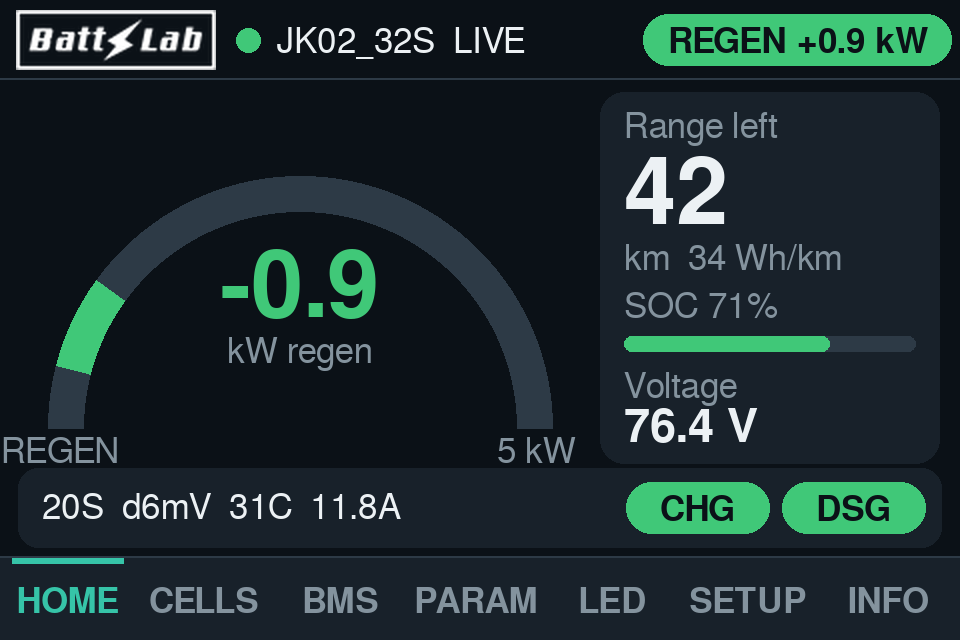
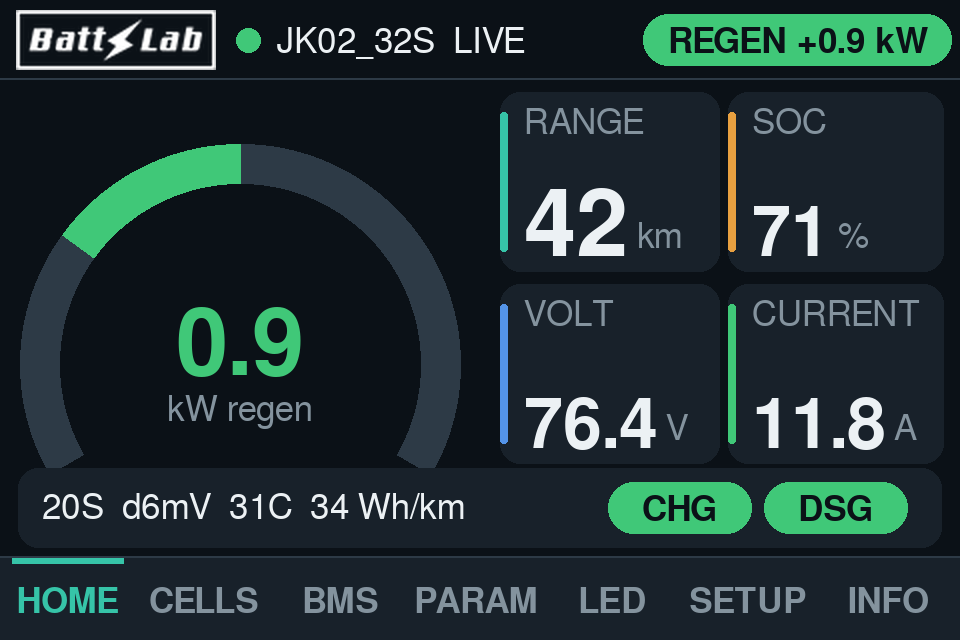
CYD EV home: redesign to symmetric gauge + RANGE/SOC/VOLT/CURRENT tiles (2.9.1-cyd35)
หน้าจอ EV (มอเตอร์ไซค์/รถ) เดิมเกจวัดกำลังเบี้ยว (REGEN เป็นแถบจิ๋วซ้ายสุด)
เลขไม่อยู่กลาง และค่ากระแสเบียดกับข้อมูลแพ็กด้านล่าง — เปลี่ยนใหม่เป็น:
- เกจกำลังสมมาตร: ศูนย์อยู่บนสุด regen กวาดซ้าย (เขียว) / drive กวาดขวา (ส้ม)
- เลข kW อยู่กลางเกจพอดี + ป้าย kW drive / kW regen
- การ์ด RANGE / SOC / VOLT / CURRENT เรียง 2x2 ด้านขวา เห็นค่าครบพร้อมกัน
- เข็มยังขยับแบบ easing (ไม่กระตุก) รองรับ regen + เตือนระยะทางต่ำเหมือนเดิม
- render_screens.py อัปเดตให้ preview ตรงกับ firmware จริง (พิกัด/ฟอนต์/สีเดียวกัน)

Claude-Session: https://claude.ai/code/session_01VYdSakDTk2CeAZPFHF5uE7

diff --git a/src/display.cpp b/src/display.cpp
@@ -714,71 +714,70 @@ static void flowAnim(const DisplaySnap &d) {
 }
 
 // ----------------------------------------------------------- EV HOME ----
-// Motorbike / car profile: drive-power meter (green = regen), range in km.
+// Motorbike / car profile (layout C): a symmetric power gauge (idle at top,
+// regen sweeps left in green, drive sweeps right in orange) with the live kW in
+// the middle, plus RANGE / SOC / VOLT / CURRENT tiles. The needle eases so the
+// motion stays smooth instead of jumping.
 static float evShown = 0, evPeak = 3000;
 static float evTarget = 0;
+static const int EV_CX = 120, EV_CY = 182, EV_R0 = 90, EV_R1 = 110;
 static void evMeter(float p) { // p in W: + = driving, - = regen
-  const int cx = 150, cy = 214, r1 = 126, r0 = 108;
-  float span = 180.f, z = 180 + span * .2f;
-  tft.fillArc(cx, cy, r0, r1, 180, 360, C_LINE);
-  if (p > 1) tft.fillArc(cx, cy, r0, r1, z, z + (360 - z) * std::min(1.f, p / evPeak), C_WARN);
-  else if (p < -1) tft.fillArc(cx, cy, r0, r1, z - (z - 180) * std::min(1.f, -p / (evPeak * .3f)), z, C_GOOD);
-  tft.fillRect(cx - 2 + int((r0 - 6) * cosf(z * 0.0174533f)), cy - 4 + int((r0 - 6) * sinf(z * 0.0174533f)), 4, 4, C_MUTED);
+  tft.fillArc(EV_CX, EV_CY, EV_R0, EV_R1, 150, 390, C_LINE);          // 240deg track, gap at the bottom
+  if (p > 1) tft.fillArc(EV_CX, EV_CY, EV_R0, EV_R1, 270, 270 + 120 * std::min(1.f, p / evPeak), C_WARN);
+  else if (p < -1) tft.fillArc(EV_CX, EV_CY, EV_R0, EV_R1, 270 - 120 * std::min(1.f, -p / (evPeak * .4f)), 270, C_GOOD);
   LGFX_Sprite t(&tft);
   t.setColorDepth(8);
-  if (!t.createSprite(160, 74)) return;
+  if (!t.createSprite(150, 70)) return;
   t.fillSprite(C_BG);
   t.setTextDatum(textdatum_t::middle_center);
   t.setFont(&fonts::FreeSansBold24pt7b);
   t.setTextColor(p < -1 ? C_GOOD : C_TEXT, C_BG);
-  t.drawString(fmt(p / 1000.f, 1), 80, 30);
+  t.drawString(fmt(std::fabs(p) / 1000.f, 1), 75, 26);
   t.setFont(&fonts::FreeSans9pt7b);
   t.setTextColor(C_MUTED, C_BG);
-  t.drawString(p < -1 ? "kW regen" : "kW", 80, 62);
-  t.pushSprite(cx - 80, cy - 100);
+  t.drawString(p < -1 ? "kW regen" : p > 1 ? "kW drive" : "kW", 75, 58);
+  t.pushSprite(EV_CX - 75, EV_CY - 35);
   t.deleteSprite();
+}
+// one data tile inside the right-hand sprite
+static void evTile(LGFX_Sprite &b, int x, int y, int w, int h, const char *label,
+                   const String &val, const char *unit, uint16_t accent, bool big) {
+  b.fillRoundRect(x, y, w, h, 10, C_CARD);
+  b.fillRoundRect(x, y + 10, 4, h - 20, 2, accent);
+  b.setFont(&fonts::FreeSans9pt7b);
+  b.setTextDatum(textdatum_t::top_left);
+  b.setTextColor(C_MUTED, C_CARD);
+  b.drawString(label, x + 12, y + 8);
+  b.setFont(big ? &fonts::FreeSansBold24pt7b : &fonts::FreeSansBold18pt7b);
+  b.setTextDatum(textdatum_t::bottom_left);
+  b.setTextColor(C_TEXT, C_CARD);
+  b.drawString(val, x + 12, y + h - 8);
+  int vw = b.textWidth(val);
+  b.setFont(&fonts::FreeSans9pt7b);
+  b.setTextColor(C_MUTED, C_CARD);
+  b.drawString(unit, x + 16 + vw, y + h - 12);
 }
 static void evHome(const DisplaySnap &d, bool force) {
   const auto &s = d.sample;
   bool ok = d.live;
-  evTarget = ok ? -(s.voltage * s.current) : 0;
+  evTarget = ok ? -(s.voltage * s.current) : 0;       // + = drive, - = regen
   evPeak = std::max(evPeak, std::fabs(evTarget));
-  if (force) {
-    evShown = 0;
-    evMeter(0);
-    tft.setFont(&fonts::FreeSans9pt7b);
-    tft.setTextDatum(textdatum_t::middle_center);
-    tft.setTextColor(C_MUTED, C_BG);
-    tft.drawString("REGEN", 30, 226);
-    tft.drawString(String(int(evPeak / 1000 + .5f)) + " kW", 268, 226);
-  }
+  if (force) { evShown = 0; evMeter(0); }
   float rk = evRangeKm(d);
+  bool low = rk >= 0 && d.rangeAlarm && rk < d.rangeAlarm;
+  int soc = ok ? int(s.soc + .5f) : 0;
+  // right-hand 2x2 tiles: RANGE / SOC / VOLT / CURRENT (screen x 250..472)
   LGFX_Sprite b(&tft);
   b.setColorDepth(8);
-  if (!b.createSprite(170, 186)) return;
+  if (!b.createSprite(224, 188)) return;
   b.fillSprite(C_BG);
-  b.fillRoundRect(0, 0, 170, 186, 12, C_CARD);
-  b.setFont(&fonts::FreeSans9pt7b);
-  b.setTextDatum(textdatum_t::top_left);
-  b.setTextColor(C_MUTED, C_CARD);
-  b.drawString("Range left", 12, 10);
-  b.setFont(&fonts::FreeSansBold24pt7b);
-  bool low = rk >= 0 && d.rangeAlarm && rk < d.rangeAlarm;
-  b.setTextColor(low ? C_WARN : C_TEXT, C_CARD);
-  b.drawString(rk < 0 ? String("--") : String(int(rk + .5f)), 12, 32);
-  b.setFont(&fonts::FreeSans9pt7b);
-  b.setTextColor(C_MUTED, C_CARD);
-  b.drawString(rk < 0 ? (d.whkm ? "km (no capacity)" : "set Wh/km on web") : (d.whkm ? String("km  ") + d.whkm + " Wh/km" : String("km")), 12, 76);
-  int soc = ok ? int(s.soc + .5f) : 0;
-  b.drawString(String("SOC ") + (ok ? String(soc) + "%" : String("--")), 12, 100);
-  b.fillRoundRect(12, 122, 146, 8, 4, C_LINE);
-  if (soc > 0) b.fillRoundRect(12, 122, 146 * std::min(soc, 100) / 100, 8, 4, soc <= 15 ? C_BAD : soc <= 35 ? C_WARN : C_GOOD);
-  b.drawString("Voltage", 12, 140);
-  b.setFont(&fonts::FreeSansBold12pt7b);
-  b.setTextColor(C_TEXT, C_CARD);
-  b.drawString(ok ? fmt(s.voltage, 1) + " V" : String("--"), 12, 158);
-  b.pushSprite(300, 46);
+  evTile(b, 2, 0, 110, 90, "RANGE", rk < 0 ? String("--") : String(int(rk + .5f)), "km", low ? C_BAD : C_ACCENT, true);
+  evTile(b, 116, 0, 108, 90, "SOC", ok ? String(soc) : String("--"), "%", C_WARN, false);
+  evTile(b, 2, 96, 110, 90, "VOLT", ok ? fmt(s.voltage, 1) : String("--"), "V", C_BLUE, false);
+  evTile(b, 116, 96, 108, 90, "CURRENT", ok ? fmt(s.current, 1) : String("--"), "A", (ok && s.current > .5f) ? C_GOOD : C_WARN, false);
+  b.pushSprite(248, 46);
   b.deleteSprite();
+  // footer: pack summary + CHG/DSG
   LGFX_Sprite st(&tft);
   st.setColorDepth(8);
   if (!st.createSprite(462, 40)) return;
@@ -790,7 +789,7 @@ static void evHome(const DisplaySnap &d, bool force) {
   st.setFont(&fonts::FreeSans9pt7b);
   st.setTextDatum(textdatum_t::middle_left);
   st.setTextColor(C_TEXT, C_CARD);
-  st.drawString(ok && imn >= 0 ? String(s.count) + "S  d" + String(int((mx - mn) * 1000 + .5f)) + "mV  " + fmt(s.temp1, 0) + "C  " + fmt(s.current, 1) + "A"
+  st.drawString(ok && imn >= 0 ? String(s.count) + "S  d" + String(int((mx - mn) * 1000 + .5f)) + "mV  " + fmt(s.temp1, 0) + "C" + (d.whkm ? String("  ") + d.whkm + " Wh/km" : String(""))
                                : String(d.linked ? "Waiting for BMS data" : "Not connected - open BMS tab"), 12, 20);
   pill(st, 304, 7, "CHG", ok && s.charge);
   pill(st, 382, 7, "DSG", ok && s.discharge);

diff --git a/tools/render_screens.py b/tools/render_screens.py
@@ -148,29 +148,34 @@ def tile_roll(s, x, y, w, h, lbl, old, new, unit, accent, r):
     dl.text((6 * S, (h - 4 - 22 + (4 - r) * step) * S), new, font=F18B, fill=TEXT, anchor='ls')
     s.im.paste(layer, ((x + 6) * S, (y + 22) * S))
 
+# Layout C: symmetric power gauge (regen left / drive right) + RANGE/SOC/VOLT/CURRENT tiles.
+# Mirrors evMeter/evHome/evTile in src/display.cpp (same coords, fonts and colours).
+def _ev_tile(s, x, y, w, h, label, val, unit, accent, big=False):
+    s.rr(x, y, w, h, 10, fill=CARD); s.rr(x, y + 10, 4, h - 20, 2, fill=accent)
+    s.text(label, x + 12, y + 8, F9, MUTED, 'lt')
+    f = F24B if big else F18B
+    s.text(val, x + 12, y + h - 8, f, TEXT, 'ls')
+    s.text(unit, x + 16 + s.width(val, f), y + h - 12, F9, MUTED, 'ls')
+
 def ev_home(p=2400, rk=42, soc=71, whkm=34, v=76.4, regen=False, alarm=None, peak=5000):
     s = Scr(); header(s, 'JK02_32S  LIVE', alarm=alarm)
     if regen:
         r = f'REGEN +{-p/1000:.1f} kW'; w = s.width(r, F9B) + 24
         s.rect(300, 2, 180, 36, BG); s.rr(476 - w, 7, w, 26, 13, fill=GOOD); s.text(r, 476 - w/2, 21, F9B, BG, 'mm')
-    cx, cy, r0, r1 = 150, 214, 108, 126; z = 180 + 180 * .2
-    s.arc(cx, cy, r0, r1, 180, 360, LINE)
-    if p > 1: s.arc(cx, cy, r0, r1, z, z + (360 - z) * min(1, p / peak), WARN)
-    elif p < -1: s.arc(cx, cy, r0, r1, z - (z - 180) * min(1, -p / (peak * .3)), z, GOOD)
-    s.text(f'{p/1000:.1f}', cx, cy - 70, F24B, GOOD if p < -1 else TEXT, 'mm')
-    s.text('kW regen' if p < -1 else 'kW', cx, cy - 38, F9, MUTED, 'mm')
-    s.text('REGEN', 30, 226, F9, MUTED, 'mm'); s.text(f'{peak//1000} kW', 268, 226, F9, MUTED, 'mm')
-    s.rr(300, 46, 170, 186, 12, fill=CARD)
-    s.text('Range left', 312, 56, F9, MUTED, 'lt')
-    low = alarm is not None
-    s.text(str(rk), 312, 78, F24B, WARN if low else TEXT, 'lt')
-    s.text(f'km  {whkm} Wh/km', 312, 122, F9, MUTED, 'lt')
-    s.text(f'SOC {soc}%', 312, 146, F9, MUTED, 'lt')
-    s.rr(312, 168, 146, 8, 4, fill=LINE); s.rr(312, 168, int(146 * soc / 100), 8, 4, fill=BAD if soc <= 15 else WARN if soc <= 35 else GOOD)
-    s.text('Voltage', 312, 186, F9, MUTED, 'lt'); s.text(f'{v:.1f} V', 312, 204, F12B, TEXT, 'lt')
+    cx, cy, r0, r1 = 120, 182, 90, 110
+    s.arc(cx, cy, r0, r1, 150, 390, LINE)
+    if p > 1: s.arc(cx, cy, r0, r1, 270, 270 + 120 * min(1, p / peak), WARN)
+    elif p < -1: s.arc(cx, cy, r0, r1, 270 - 120 * min(1, -p / (peak * .4)), 270, GOOD)
+    s.text(f'{abs(p)/1000:.1f}', cx, cy - 9, F24B, GOOD if p < -1 else TEXT, 'mm')
+    s.text('kW regen' if p < -1 else 'kW drive' if p > 1 else 'kW', cx, cy + 23, F9, MUTED, 'mm')
+    low = alarm is not None; cur = -p / v
+    _ev_tile(s, 250, 46, 110, 90, 'RANGE', str(rk), 'km', BAD if low else ACCENT, big=True)
+    _ev_tile(s, 364, 46, 108, 90, 'SOC', str(soc), '%', WARN)
+    _ev_tile(s, 250, 142, 110, 90, 'VOLT', f'{v:.1f}', 'V', BLUE)
+    _ev_tile(s, 364, 142, 108, 90, 'CURRENT', f'{cur:.1f}', 'A', GOOD if cur > .5 else WARN)
     s.rr(9, 234, 462, 40, 10, fill=CARD)
-    s.text(f'20S  d6mV  31C  {-p/v:.1f}A', 21, 254, F9, TEXT)
-    pill(s, 313, 241, 'CHG', True); pill(s, 391, 241, 'DSG', True)
+    s.text(f'20S  d6mV  31C  {whkm} Wh/km', 21, 254, F9, TEXT)
+    pill(s, 304, 241, 'CHG', True); pill(s, 382, 241, 'DSG', True)
     tabs(s, 0); return s
 
 def boot_shine(progress=.35, shine=150, step='Starting Bluetooth'):

diff --git a/src/main.cpp b/src/main.cpp
@@ -31,7 +31,7 @@
 #include <freertos/queue.h>
 #include <freertos/semphr.h>
 #ifdef BATTLAB_CYD35
-#define BATTLAB_FW "2.9.0-cyd35"
+#define BATTLAB_FW "2.9.1-cyd35"
 #else
 #define BATTLAB_FW "2.9.0-s3"
 #endif
